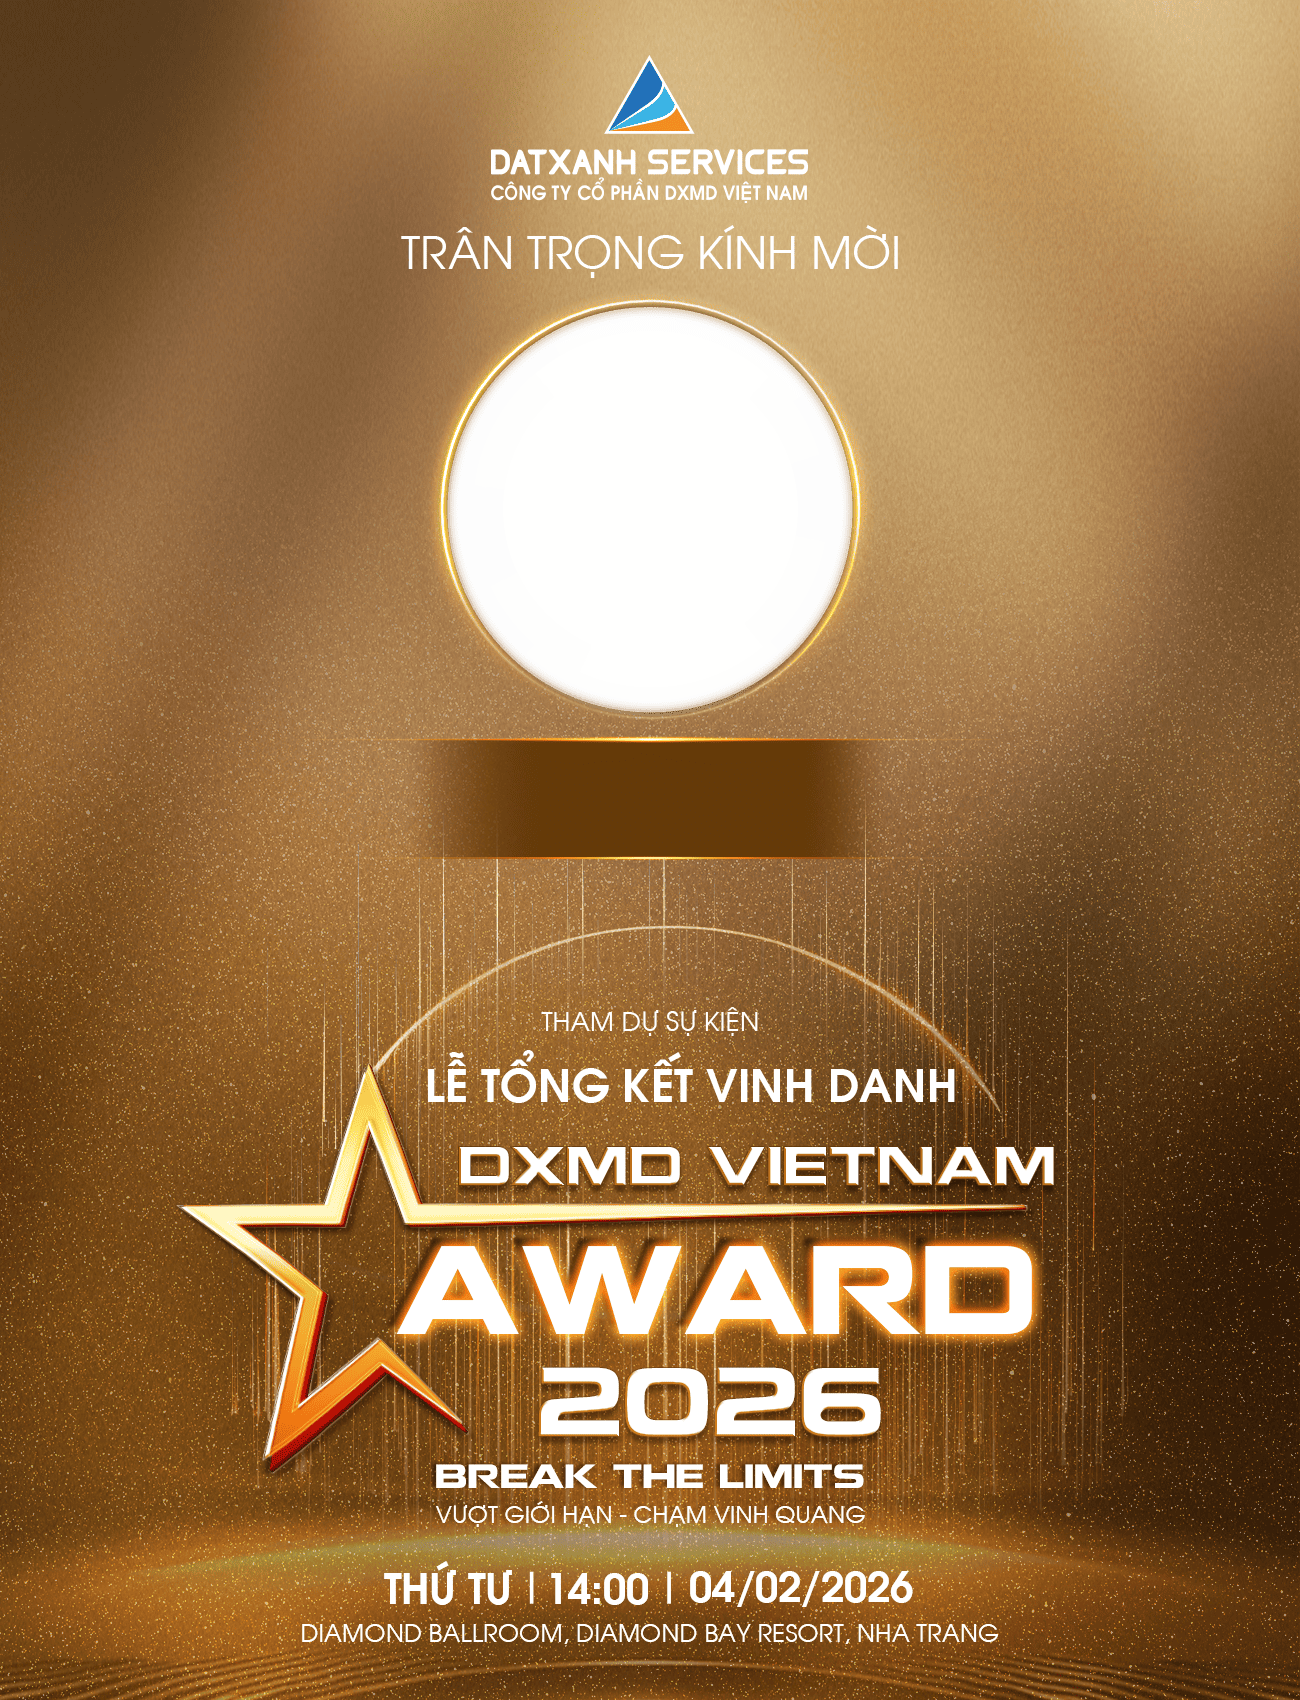
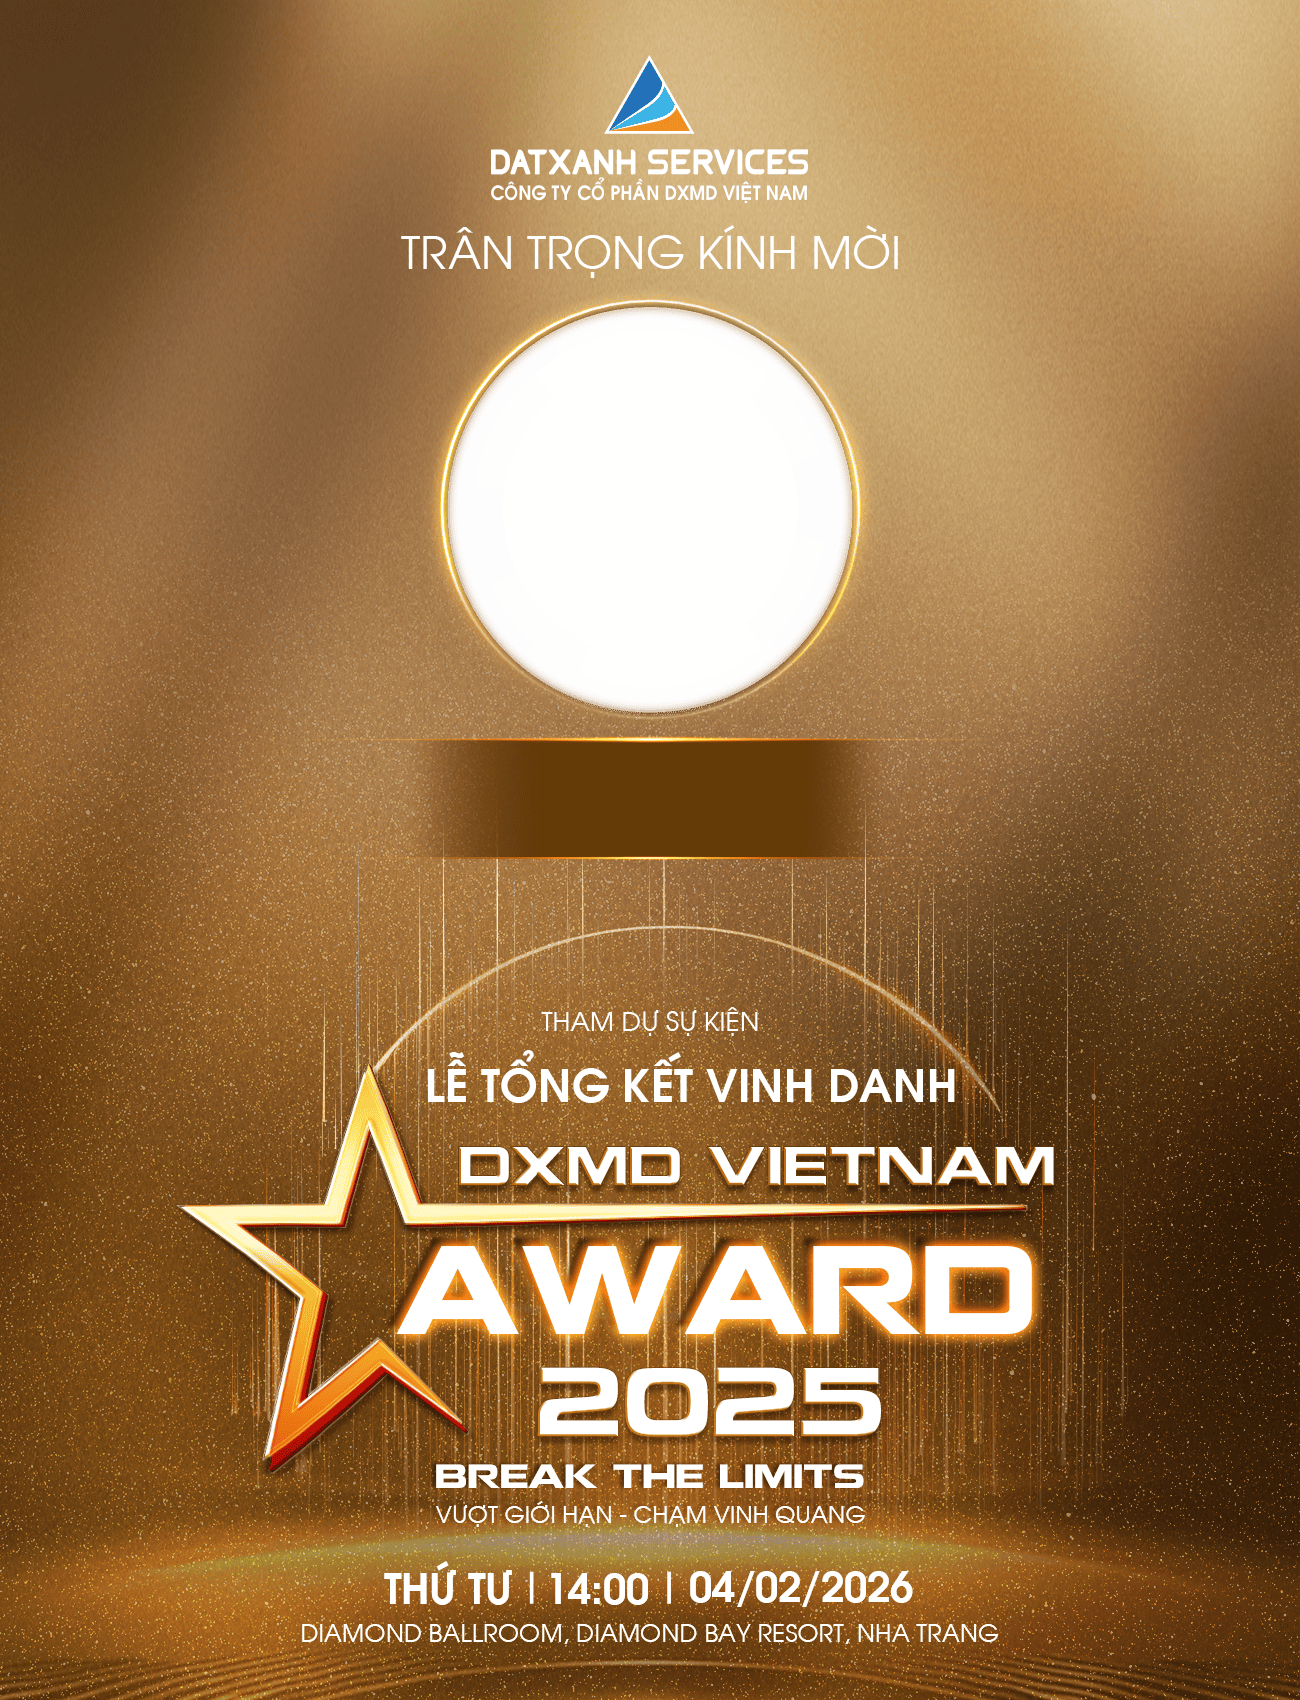
update: title - img

Changed region(s): [[0.6154, 0.8106, 0.6769, 0.8418], [0.2462, 0.6859, 0.2769, 0.7171], [0.1846, 0.7171, 0.2154, 0.7482]]

diff --git a/app/layout.tsx b/app/layout.tsx
@@ -3,12 +3,12 @@ import type { Metadata, Viewport } from 'next';
 import { Manrope } from 'next/font/google';
 
 export const metadata: Metadata = {
-  title: 'Thư mời | DXMD Vietnam Award 2026',
+  title: 'Thư mời | DXMD Vietnam Award 2025',
   description:
-    'Thư mời chính thức tham dự DXMD Vietnam Award 2026 – sự kiện vinh danh các cá nhân và doanh nghiệp tiêu biểu tại DXMD Việt Nam.',
+    'Thư mời chính thức tham dự DXMD Vietnam Award 2025 – sự kiện vinh danh các cá nhân và doanh nghiệp tiêu biểu tại DXMD Việt Nam.',
 
   keywords: [
-    'DXMD Vietnam Award 2026',
+    'DXMD Vietnam Award 2025',
     'Thư mời DXMD',
     'Sự kiện công nghệ Việt Nam',
     'Vietnam Digital Transformation Award',
@@ -24,28 +24,28 @@ export const metadata: Metadata = {
   },
 
   openGraph: {
-    title: 'Thư mời DXMD Vietnam Award 2026',
+    title: 'Thư mời DXMD Vietnam Award 2025',
     description:
-      'DXMD Vietnam Award 2026 – sự kiện vinh danh các cá nhân và doanh nghiệp xuất sắc trong tại DXMD Việt Nam.',
+      'DXMD Vietnam Award 2025 – sự kiện vinh danh các cá nhân và doanh nghiệp xuất sắc trong tại DXMD Việt Nam.',
     type: 'website',
     locale: 'vi_VN',
-    siteName: 'DXMD Vietnam Award 2026',
+    siteName: 'DXMD Vietnam Award 2025',
     images: [
       {
-        url: '/og-dxmd-vietnam-award-2026.png', // 1200x630
+        url: '/og-image.jpg', // 1200x630
         width: 1200,
         height: 630,
-        alt: 'DXMD Vietnam Award 2026',
+        alt: 'DXMD Vietnam Award 2025',
       },
     ],
   },
 
   twitter: {
     card: 'summary_large_image',
-    title: 'Thư mời | DXMD Vietnam Award 2026',
+    title: 'Thư mời | DXMD Vietnam Award 2025',
     description:
-      'Thư mời chính thức tham dự DXMD Vietnam Award 2026 – sự kiện vinh danh tại DXMD Việt Nam.',
-    images: ['/og-dxmd-vietnam-award-2026.png'],
+      'Thư mời chính thức tham dự DXMD Vietnam Award 2025 – sự kiện vinh danh tại DXMD Việt Nam.',
+    images: ['/og-dxmd-vietnam-award-2025.png'],
   },
 
   alternates: {
